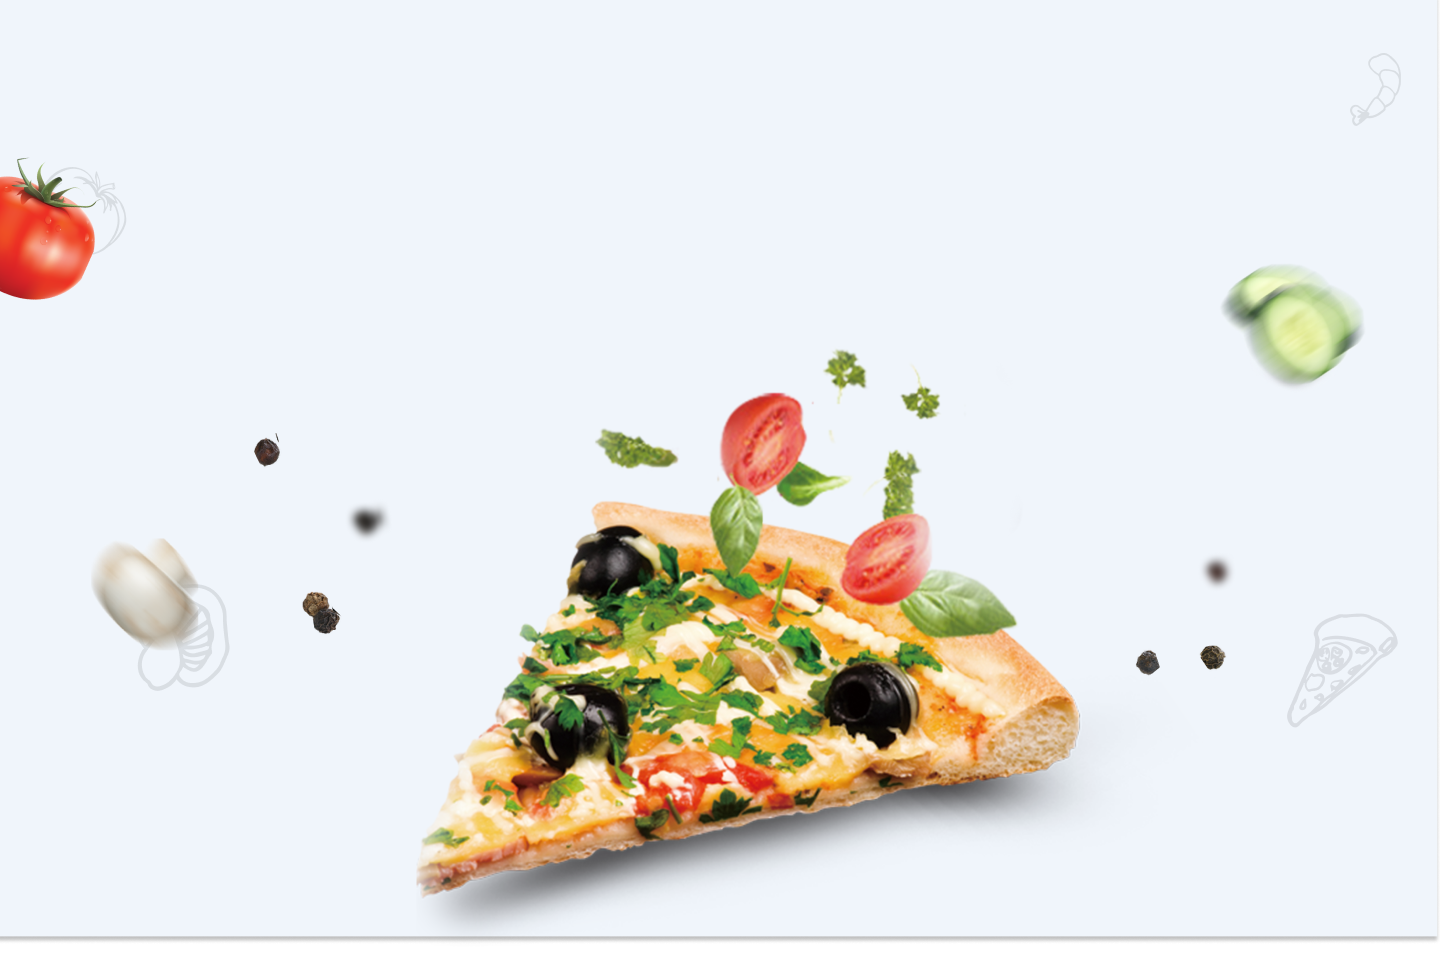
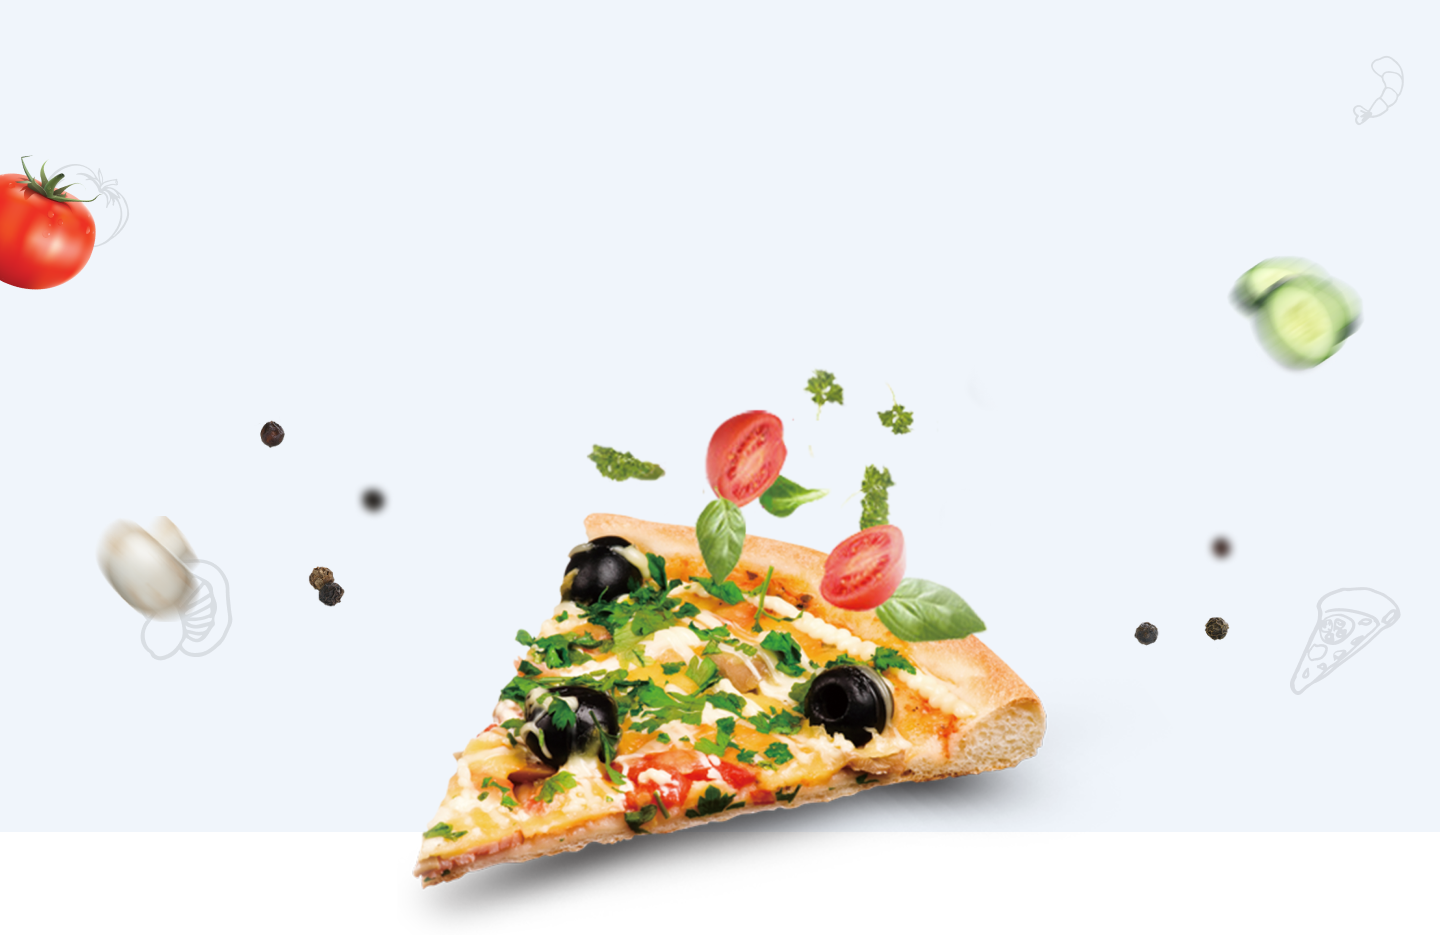
Fill-form section completed

diff --git a/hometask/index.html b/hometask/index.html
@@ -30,11 +30,12 @@
                   </li>
                 </ul>
                 <a class="navbar-brand mx-auto navbar-center" href="#"><img src="./assets/images/logos 1.png" alt=""></a>
-                <ul class="navbar-nav navbar-right">
+                <ul class="navbar-nav navbar-right d-flex align-items-center">
                     <li class="nav-item">
                         <a class="nav-link active" aria-current="page" href="#"><span></span> Daily 11am - 9pm</a>
                       </li>
-                      <li class="nav-item">
+                      <li class="nav-item phone">
+                        <i class="fas fa-phone-alt"></i>
                         <a class="nav-link active" aria-current="page" href="#"><img src="" alt=""> 0 800 33 08 98</a>
                       </li>
                 </ul>
@@ -87,6 +88,28 @@
                     <div class="show-features mx-auto">
                       <i class="fas fa-shopping-bag"></i>
                     </div>
+                    <div class="sizes-overlay">
+                      <h3>Sizes:</h3>
+                      <div class="form-check">
+                        <input class="form-check-input" type="radio" name="flexRadioDefault" id="flexRadioDefault1">
+                        <label class="form-check-label" for="flexRadioDefault1">
+                          small - 20cm
+                        </label>
+                      </div>
+                      <div class="form-check">
+                        <input class="form-check-input" type="radio" name="flexRadioDefault" id="flexRadioDefault1">
+                        <label class="form-check-label" for="flexRadioDefault1">
+                          medium - 20cm
+                        </label>
+                      </div>
+                      <div class="form-check">
+                        <input class="form-check-input" type="radio" name="flexRadioDefault" id="flexRadioDefault1">
+                        <label class="form-check-label" for="flexRadioDefault1">
+                          big - 20cm
+                        </label>
+                      </div>
+                      <button class="btn btn-primary add-basket-btn">Add to basket</button>
+                    </div>
                 </div>
               </div>
               <div class="col-lg-3">
@@ -126,6 +149,30 @@
           </div>
         </section>
         <!-- Dishes section end -->
+
+        <!-- Fill Form section start -->
+        <section id="fill-form" style="background-image: url(./assets/images/car.png);">
+          <div class="container">
+            <div class="row">
+              <div class="col-lg-12">
+                <div class="head text-center">
+                  <h2>Fill out the form
+                    and we will call you</h2>
+                </div>
+              </div>
+            </div>
+            <div class="row">
+              <div class="col-lg-12 text-center content">
+                <form action="">
+                  <input type="text" placeholder="Your name">
+                  <input type="text" placeholder="Phone number">
+                  <button type="submit">Call back --></button>
+                </form>
+              </div>
+            </div>
+          </div>
+        </section>
+        <!-- Fill Form section end -->
       </main>
 </body>
 </html>

diff --git a/hometask/css/style.css b/hometask/css/style.css
@@ -10,12 +10,37 @@
   margin-left: 8%;
 }
 
+#header .navbar-left li {
+  padding-left: 5px;
+}
+
 #header .navbar-right {
-  margin-right: 8%;
+  margin-right: 4%;
+}
+
+#header .navbar-right .phone {
+  padding-left: 5px;
+  display: flex;
+  align-items: center;
+}
+
+#header .navbar-right .phone i {
+  width: 35px;
+  height: 35px;
+  border-radius: 50%;
+  background: linear-gradient(116.88deg, #FE3326 -4.28%, #F26E0E 112.69%), #59AAF1;
+  display: flex;
+  align-items: center;
+  justify-content: center;
+  color: #fff;
+}
+
+#header .navbar-right .phone a {
+  font-weight: 700;
 }
 
 #hero {
-  height: 130vh;
+  height: 140vh;
   background-size: cover;
   background-position: top;
   background-repeat: no-repeat;
@@ -49,7 +74,7 @@
 }
 
 #dishes .card {
-  border: 2px solid #ECEEF7;
+  border: 2px solid #eceef7;
 }
 
 #dishes .card img {
@@ -79,8 +104,8 @@
   width: 50px;
   margin-bottom: -25px;
   transform: rotate(45deg);
-  border-right: 2px solid #ECEEF7;
-  border-bottom: 2px solid #ECEEF7;
+  border-right: 2px solid #eceef7;
+  border-bottom: 2px solid #eceef7;
   border-radius: 12px;
   background: #fff;
 }
@@ -93,6 +118,39 @@
   width: 50px;
   transform: rotate(-45deg);
   color: #F58656;
+}
+
+#dishes .card .sizes-overlay {
+  background: rgba(255, 255, 255, 0.911);
+  width: 100%;
+  height: 100%;
+  position: absolute;
+  top: 0;
+  left: 0;
+  right: 0;
+  padding: 0 25px;
+}
+
+#dishes .card .sizes-overlay h3 {
+  font-size: 24px;
+  padding: 40px 10px 10px 0;
+}
+
+#dishes .card .sizes-overlay .add-basket-btn {
+  margin-left: auto;
+  margin-right: auto;
+  display: flex;
+  justify-content: center;
+  align-items: center;
+  margin-top: 70px;
+  padding: 10px 50px;
+  background: linear-gradient(116.88deg, #FE3326 -4.28%, #F26E0E 112.69%), #59AAF1;
+  border: none;
+}
+
+#dishes .card .sizes-overlay .add-basket-btn:focus {
+  border: none;
+  visibility: hidden;
 }
 
 #basket {
@@ -144,4 +202,41 @@
   bottom: -5px;
   color: #fff;
   background-color: #F58656;
+}
+
+#fill-form {
+  height: 80vh;
+  background-repeat: no-repeat;
+  background-size: cover;
+  background-position: bottom;
+}
+
+#fill-form .head h2 {
+  font-weight: 700;
+  font-size: 48px;
+  line-height: 58.51px;
+  font-family: sans-serif;
+  padding: 5% 30%;
+  color: #000;
+}
+
+#fill-form .content input {
+  border: none;
+  border-radius: 30px;
+  padding: 14px 20px;
+  margin-right: 50px;
+  width: 18vw;
+}
+
+#fill-form .content input:focus {
+  outline: none;
+}
+
+#fill-form .content button {
+  background: #FE5626;
+  border: none;
+  padding: 14px 50px;
+  color: #fff;
+  border-radius: 30px;
+  font-weight: bold;
 }

diff --git a/hometask/assets/scss/sections/_dishes.scss b/hometask/assets/scss/sections/_dishes.scss
@@ -7,33 +7,33 @@
     }
   }
   .card {
-    border: 2px solid #ECEEF7;
+    border: 2px solid #eceef7;
 
     img {
       max-width: 100%;
     }
     .pizza-name {
-        font-size: 18px;
-        font-weight: 700;
-        padding: 20px 15px 0px 15px;
+      font-size: 18px;
+      font-weight: 700;
+      padding: 20px 15px 0px 15px;
     }
-    .ingredients{
-        padding: 0 15px;
-        font-size: 14px;
+    .ingredients {
+      padding: 0 15px;
+      font-size: 14px;
     }
-    .card-cost{
-        margin-left: auto;
-        margin-right: auto;
-        padding: 5px 0;
-        font-size: 20px;
+    .card-cost {
+      margin-left: auto;
+      margin-right: auto;
+      padding: 5px 0;
+      font-size: 20px;
     }
     .show-features {
       height: 50px;
       width: 50px;
       margin-bottom: -25px;
       transform: rotate(45deg);
-      border-right: 2px solid #ECEEF7;
-      border-bottom: 2px solid #ECEEF7;
+      border-right: 2px solid #eceef7;
+      border-bottom: 2px solid #eceef7;
       border-radius: 12px;
       background: #fff;
       i {
@@ -44,6 +44,35 @@
         width: 50px;
         transform: rotate(-45deg);
         color: $primary-color;
+      }
+    }
+    .sizes-overlay {
+      background: rgba(255, 255, 255, 0.911);
+      width: 100%;
+      height: 100%;
+      position: absolute;
+      top: 0;
+      left: 0;
+      right: 0;
+      padding: 0 25px;
+      h3 {
+        font-size: 24px;
+        padding: 40px 10px 10px 0;
+      }
+      .add-basket-btn {
+        margin-left: auto;
+        margin-right: auto;
+        display: flex;
+        justify-content: center;
+        align-items: center;
+        margin-top: 70px;
+        padding: 10px 50px;
+        background: linear-gradient(116.88deg, #FE3326 -4.28%, #F26E0E 112.69%), #59AAF1;
+        border: none;
+        &:focus{
+            border: none;
+            visibility: hidden;
+        }
       }
     }
   }

diff --git a/hometask/assets/scss/sections/_navbar.scss b/hometask/assets/scss/sections/_navbar.scss
@@ -6,8 +6,29 @@
     right: 0;
     .navbar-left{
         margin-left: 8%;
+        li{
+            padding-left: 5px;
+        }
     }
     .navbar-right{
-        margin-right: 8%;
+        margin-right: 4%;
+        .phone{
+            padding-left: 5px;
+            display: flex;
+            align-items: center;
+            i{
+                width: 35px;
+                height: 35px;
+                border-radius: 50%;
+                background: linear-gradient(116.88deg, #FE3326 -4.28%, #F26E0E 112.69%), #59AAF1;
+                display: flex;
+                align-items: center;
+                justify-content: center;
+                color: #fff;
+            }
+            a{
+                font-weight: $main_font-weight;
+            }
+        }
     }
 }

diff --git a/hometask/assets/scss/sections/_fill-form.scss b/hometask/assets/scss/sections/_fill-form.scss
@@ -1,0 +1,33 @@
+#fill-form{
+    height: 80vh;
+    background-repeat: no-repeat;
+    background-size: cover;
+    background-position: bottom;
+    .head{
+        h2{
+            @include headers;
+            padding: 5% 30%;
+            color: #000;
+        }
+    }
+    .content{
+        input{
+            border: none;
+            border-radius: 30px;
+            padding: 14px 20px;
+            margin-right: 50px;
+            width: 18vw;
+            &:focus{
+                outline: none;
+            }
+        }
+        button{
+            background: #FE5626;
+            border: none;
+            padding: 14px 50px;
+            color: #fff;
+            border-radius: 30px;
+            font-weight: bold;
+        }
+    }
+}

diff --git a/hometask/assets/scss/sections/_hero.scss b/hometask/assets/scss/sections/_hero.scss
@@ -1,5 +1,5 @@
 #hero{
-    height: 130vh;
+    height: 140vh;
     background-size: cover;
     background-position: top;
     background-repeat: no-repeat;

diff --git a/hometask/assets/scss/sections/_index.scss b/hometask/assets/scss/sections/_index.scss
@@ -1,3 +1,4 @@
 @import "./navbar";
 @import "./hero";
 @import "./dishes";
+@import "./fill-form";
